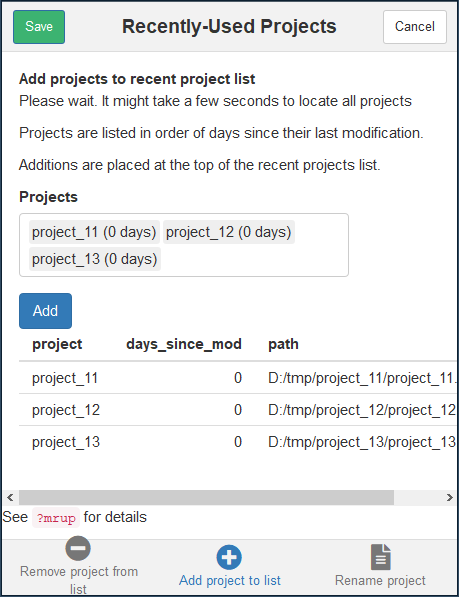
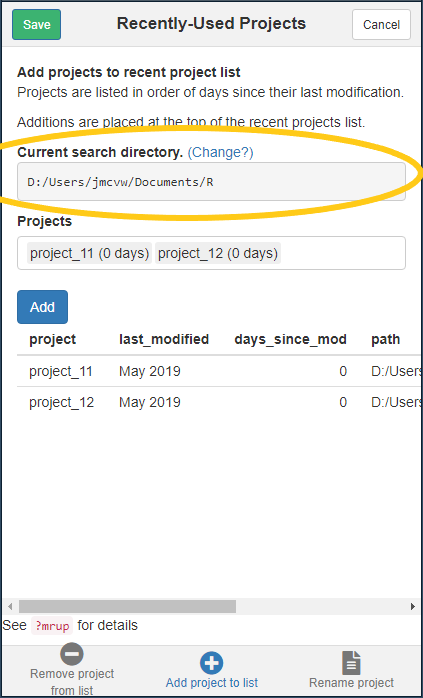
Updates docs

Changed region(s): [[0.0, 0.0, 1.0, 1.0], [0.2459, 0.0, 0.7376, 0.0603], [0.4917, 0.7236, 0.5225, 0.7538]]

diff --git a/README.md b/README.md
@@ -1,9 +1,9 @@
-Addin ~ MRUP
+Addin \~ MRUP
 ================
 
 <!-- EDIT IN README.RMD -->
 
-## An RStudio addin for manipluting the “Most Recently Used Projects” list
+## An RStudio addin for manipulating the “Most Recently Used Projects” list
 
 The addin allows projects to be added to, or removed from, the recent
 project drop-down menu. The addin also makes it possible to rename
@@ -12,10 +12,6 @@ existing projects without navigating file system manually.
 The RStudio menu shows a list of the 10 most recently used projects.
 This is based on the project\_mru file which may contain more than 10
 projects (apparently 15 max?).
-
-**NB:** By default, only projects saved in subdirectories of the `~/R` directory are
-found. It is possible to change which directory is searched on Windows machines only, so if you have a non-Windows machine and prefer to save projects all over your hard disc, this will
-currently not find projects located elsewhere.
 
 ### Install
 
@@ -52,11 +48,14 @@ app.
 
 ### Add tab
 
-All subdirectories of the `~/R` directory are searched for`.Rproj`
-files, and will likely take a few seconds to complete. Once done, a list
-is generated that indicates how long it has been since each project was
-modified. Selected projects are shown in a table that also shows the
-full path to the project.
+Adding new projects to the recently used list requires searching all
+subdirectories for `.Rproj` files. The default search location is `~/R`,
+but this can be changed by clicking the `Change` link. It may take
+several seconds to complete the search, with the time increasing the
+closer you get to the root directory of a hard disk. Once completed, a
+list is generated of all detected projects that indicates how long it
+has been since each project was modified. Selected projects are shown in
+a table that also shows the full path to the project.
 
 Pressing the
 <code style='background-color:#337ab7; color:white'>Add</code> button
